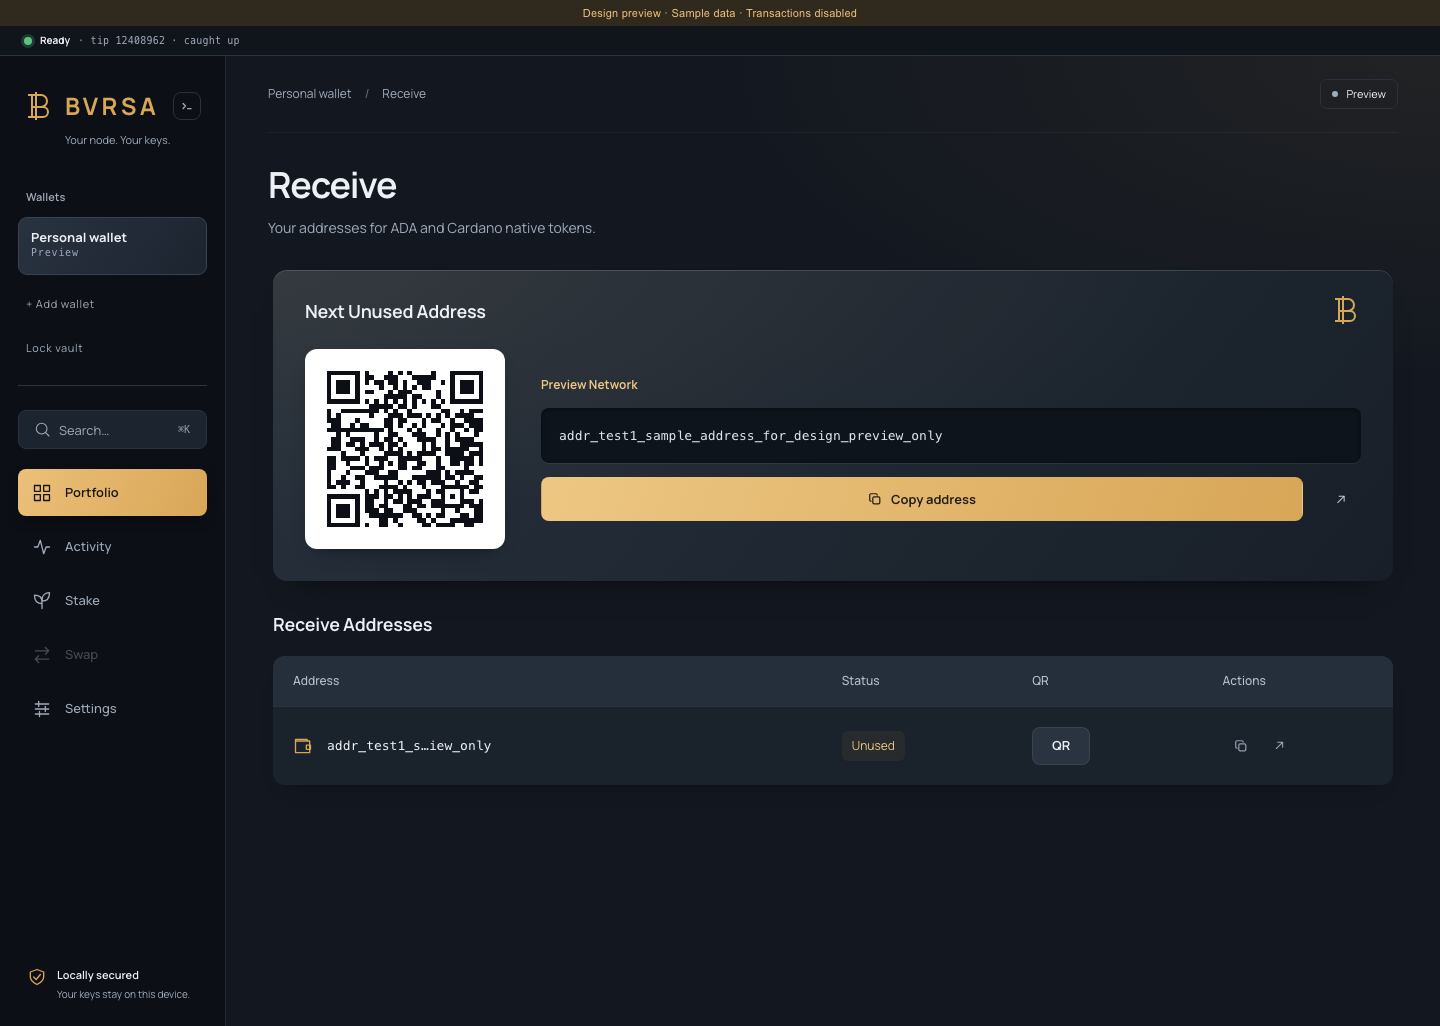
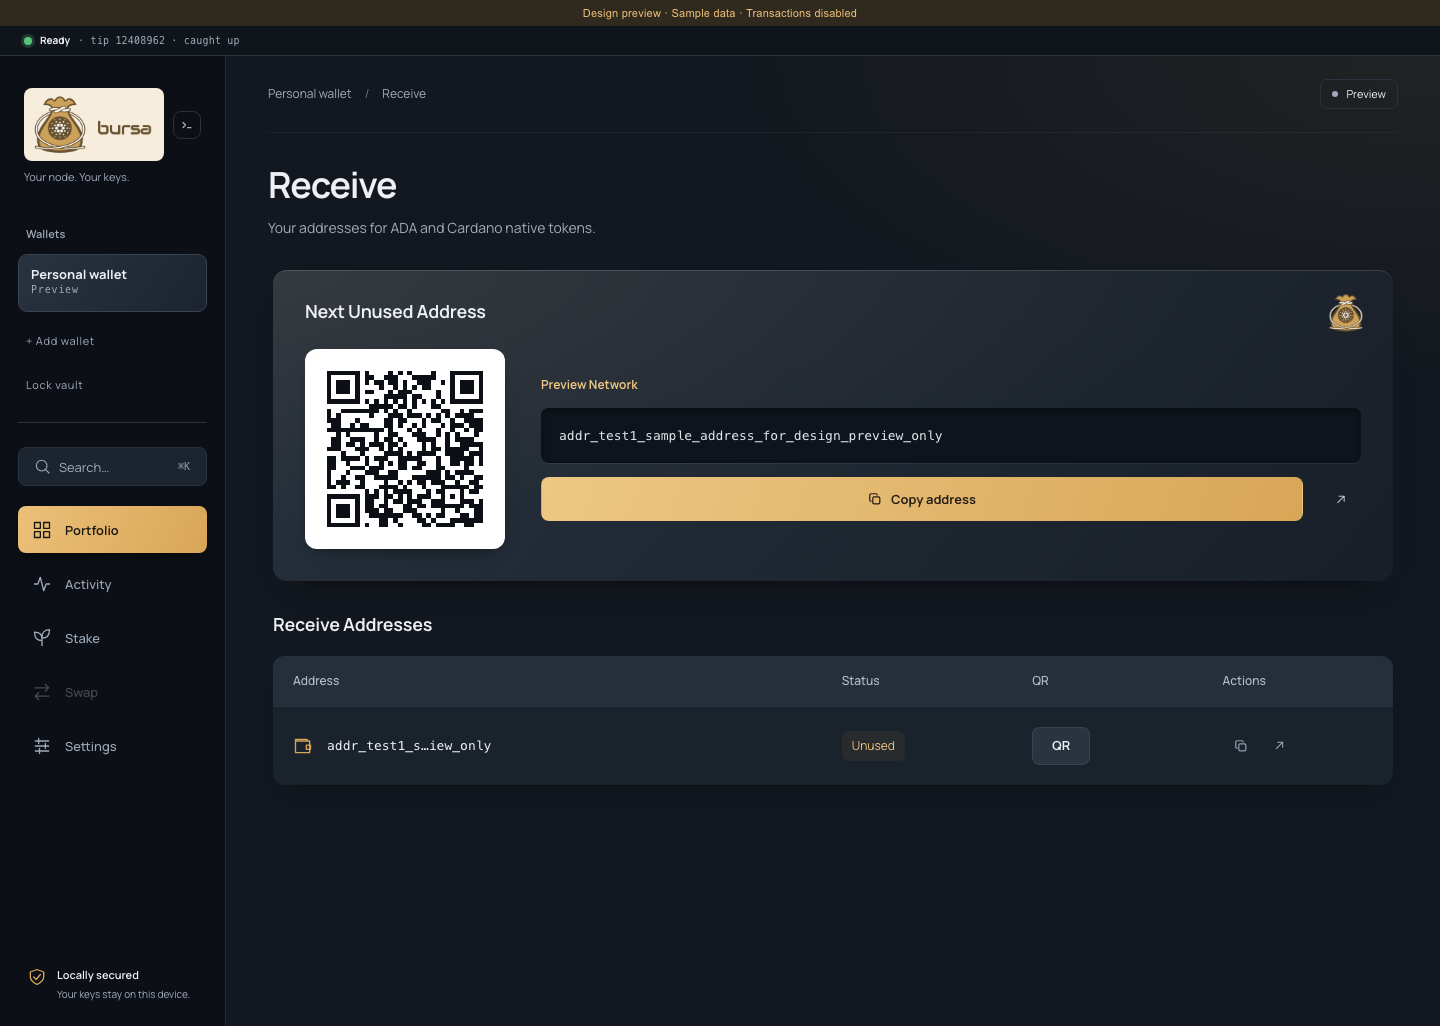
fix(ui): use Bursa branding throughout wallet interface

diff --git a/ui/web/src/components/MobileNav.tsx b/ui/web/src/components/MobileNav.tsx
@@ -16,7 +16,7 @@ import { useEffect, useRef, useState } from "react";
 import type { Status, WalletView } from "../api/types";
 import type { Tone } from "./StatusPill";
 import { WalletSwitcher } from "./WalletSwitcher";
-import { Icon } from "./Icon";
+import { Icon, BursaLogo } from "./Icon";
 import { CliButton } from "./CliButton";
 
 const FOCUSABLE_SELECTOR = [
@@ -56,7 +56,7 @@ interface MobileNavProps {
 
 // MobileNav renders on viewports narrower than 768 px. It replaces the fixed
 // left sidebar with:
-//   - A compact top bar: BVRSA mark · active wallet name · sync chip · ☰
+//   - A compact top bar: Bursa logo · active wallet name · sync chip · ☰
 //   - A slide-out drawer (wallet switcher + full nav list) behind the hamburger
 //
 // The desktop sidebar is hidden at the same breakpoint via CSS, so both can live
@@ -177,9 +177,7 @@ export function MobileNav({
     <>
       {/* ── Top bar ─────────────────────────────────────────────────── */}
       <div className="mobile-topbar" role="banner">
-        <span className="mobile-brand-mark" aria-label="BVRSA">
-          BVRSA
-        </span>
+        <span className="mobile-brand-mark"><BursaLogo /></span>
 
         <div className="mobile-topbar-center">
           {activeWallet ? (

diff --git a/ui/web/src/screens/Portfolio.tsx b/ui/web/src/screens/Portfolio.tsx
@@ -1,6 +1,6 @@
 import { useCallback, useMemo, useState } from "react";
 import { useBalance, useDelegation, useAssetMetadata, useNfts, useNftMedia } from "../api/hooks";
-import { BursaMark, Icon } from "../components/Icon";
+import { BursaMark, BursaLogo, Icon } from "../components/Icon";
 import { Button } from "../components/Button";
 import { Card } from "../components/Card";
 import { Table } from "../components/Table";
@@ -196,7 +196,7 @@ export function Portfolio({ canSend = false, sendDisabledReason, multiSigError }
         <svg className="engraved-lines" viewBox="0 0 700 400" fill="none" aria-hidden="true">
           {Array.from({ length: 24 }, (_, i) => <ellipse key={i} cx="570" cy="225" rx={75 + i * 9} ry={115 + i * 8} transform={`rotate(${-35 + i * 2} 570 225)`} />)}
         </svg>
-        <div className="wallet-card-footer"><span className="card-wordmark">BVRSA</span><span><Icon name="shield" size={14} />Your node. Your keys.</span></div>
+        <div className="wallet-card-footer"><span className="card-wordmark"><BursaLogo /></span><span><Icon name="shield" size={14} />Your node. Your keys.</span></div>
       </section>
 
       <div className="portfolio-assets"><Card>

diff --git a/ui/web/src/screens/Send.tsx b/ui/web/src/screens/Send.tsx
@@ -1,4 +1,4 @@
-import { BursaMark, Icon } from "../components/Icon";
+import { BursaLogo, Icon } from "../components/Icon";
 import { useEffect, useState } from "react";
 import type { Dispatch, SetStateAction } from "react";
 import type { Preview, TxResult, SendAsset, UnsignedTx, HandleInfo } from "../api/types";
@@ -327,7 +327,7 @@ function Compose({ to, setTo, adaAmount, setAdaAmount, assetRows, setAssetRows, 
     <aside className="transfer-object" aria-hidden="true">
       <div className="transfer-object-back" />
       <div className="transfer-pass">
-        <div className="transfer-pass-top"><span>BVRSA</span><BursaMark /></div>
+        <div className="transfer-pass-top"><BursaLogo /></div>
         <div className="transfer-pass-body"><span className="transfer-pass-label">Transfer draft</span><strong>{adaAmount.trim() || "0.00"}<span> ADA</span></strong></div>
         <div className="transfer-pass-destination"><Icon name="send" size={22} /><div><span>Recipient</span><p>{to.trim() || "Enter an address"}</p></div></div>
         <div className="transfer-pass-footer"><span>Cardano</span><span>Not sent</span></div>

diff --git a/ui/web/src/app.tsx b/ui/web/src/app.tsx
@@ -11,7 +11,7 @@ import {
 import { lockVault, ApiError } from "./api/client";
 import { getStoredDeviceKind } from "./hw/deviceKind";
 import { useIdleLock } from "./useIdleLock";
-import { Icon, BursaMark } from "./components/Icon";
+import { Icon, BursaLogo } from "./components/Icon";
 import { Button } from "./components/Button";
 import { SyncBanner } from "./components/SyncBanner";
 import { WalletSwitcher } from "./components/WalletSwitcher";
@@ -657,7 +657,7 @@ export function App() {
         <nav className="sidebar">
           <div className="brand">
             <div className="brand-row">
-              <span className="brand-lockup"><BursaMark /><span className="brand-mark">BVRSA</span></span>
+              <span className="brand-lockup"><BursaLogo /></span>
               <CliButton onOpen={() => setPaletteOpen(true)} />
             </div>
             <span className="brand-motto">Your node. Your keys.</span>

diff --git a/ui/web/src/styles/wallet.css b/ui/web/src/styles/wallet.css
@@ -238,3 +238,13 @@ h1 { font-size: 36px; line-height: 1.2; font-weight: 650; letter-spacing: -.035e
     background: radial-gradient(ellipse 100% 430px at 100% 0%, #d8a65716, transparent 85%), #131820;
   }
 }
+
+/* Existing repository artwork, reproduced without redrawing the brand. */
+.bursa-logo { display: block; width: 140px; height: auto; background: #f6eddd; border-radius: 8px; }
+.bursa-symbol { display: block; object-fit: contain; }
+.brand-lockup { flex-shrink: 0; }
+.brand-motto { margin-left: 0; }
+.wallet-signature { transform: none; opacity: .18; }
+.wallet-signature .bursa-symbol { object-fit: contain; filter: none; }
+.card-wordmark .bursa-logo { width: 92px; border-radius: 5px; }
+.mobile-brand-mark .bursa-logo { width: 94px; border-radius: 5px; }

diff --git a/ui/web/src/components/Icon.tsx b/ui/web/src/components/Icon.tsx
@@ -23,5 +23,9 @@ export function Icon({ name, size = 20, style }: { name: string; size?: number; 
 }
 
 export function BursaMark() {
-  return <svg className="bursa-symbol" width="32" height="32" viewBox="0 0 32 32" fill="none" aria-hidden="true"><path d="M8 5h9a6 6 0 0 1 0 12H8zm0 12h11a5 5 0 0 1 0 10H8z" stroke="currentColor" strokeWidth="2"/><path d="M4 5h8M4 27h8M12 2v28" stroke="currentColor" strokeWidth="2"/></svg>;
+  return <img className="bursa-symbol" src="/brand/bursa-pouch.png" width="32" height="36" alt="" aria-hidden="true" />;
+}
+
+export function BursaLogo() {
+  return <img className="bursa-logo" src="/brand/bursa-logo.png" width="151" height="79" alt="Bursa" />;
 }

diff --git a/ui/web/src/styles/screens.css b/ui/web/src/styles/screens.css
@@ -348,3 +348,6 @@
  .receive > .card:last-child td:nth-child(3) { justify-self: end; }
  .receive > .card:last-child td:nth-child(3):has(.receive-qr-frame) { justify-self: stretch; }
 }
+
+.transfer-pass-top .bursa-logo { width: 132px; background: transparent; }
+.receive-pass-mark .bursa-symbol { width: 34px; height: 38px; }

diff --git a/DESIGN.md b/DESIGN.md
@@ -2,6 +2,10 @@
 
 Bursa is a local-node Cardano wallet. Its interface prioritizes readable addresses, balances and signing steps, using slate surfaces and gold accents.
 
+## Brand assets
+
+Use the existing Bursa pouch and custom lowercase wordmark from `.github/assets/bursa-illustration.png` and `.github/assets/bursa-logo-with-text-horizontal.png`. Web copies live in `ui/web/public/brand`. The original colors and shapes are preserved; light backing improves wordmark contrast on slate. The invented B emblem and BVRSA text treatments have been removed from the redesigned UI.
+
 ## Visual system
 
 - Self-hosted Manrope for interface text; monospace for addresses and hashes.

diff --git a/docs/design/README.md b/docs/design/README.md
@@ -23,6 +23,10 @@ Mobile images capture the actual 390 × 844 viewport. Full-page mobile captures 
 
 From `ui/web`, run `npm ci`, `npm run build`, then `node design-preview.mjs`. Open http://127.0.0.1:4174 and enter any password. The preview serves synthetic wallet data, shows a persistent preview banner and rejects transaction/settings mutations. The preview server is outside the production bundle.
 
+## Brand artwork
+
+The UI uses Bursa’s existing repository logo and pouch illustration, copied unchanged from `.github/assets` into `ui/web/public/brand`.
+
 ## Design references
 
 - [Eternl published interface](https://cardano.org/apps/eternl/)
